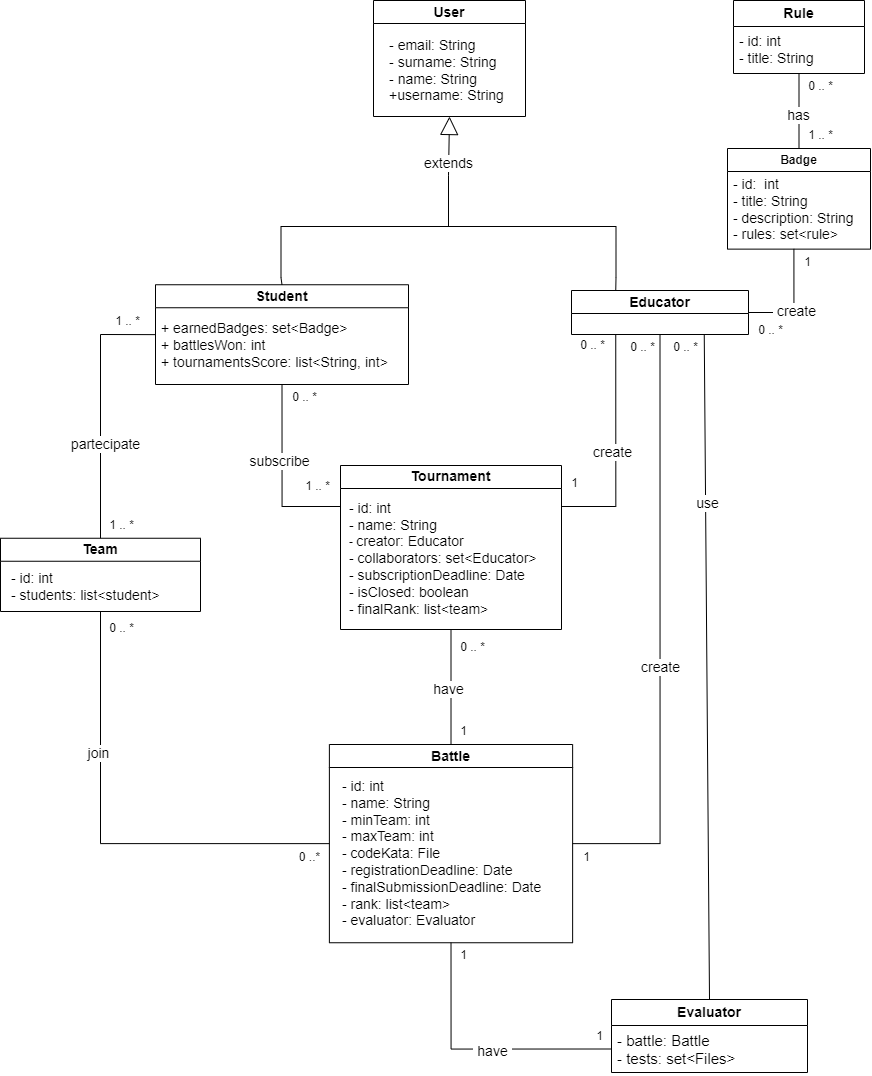
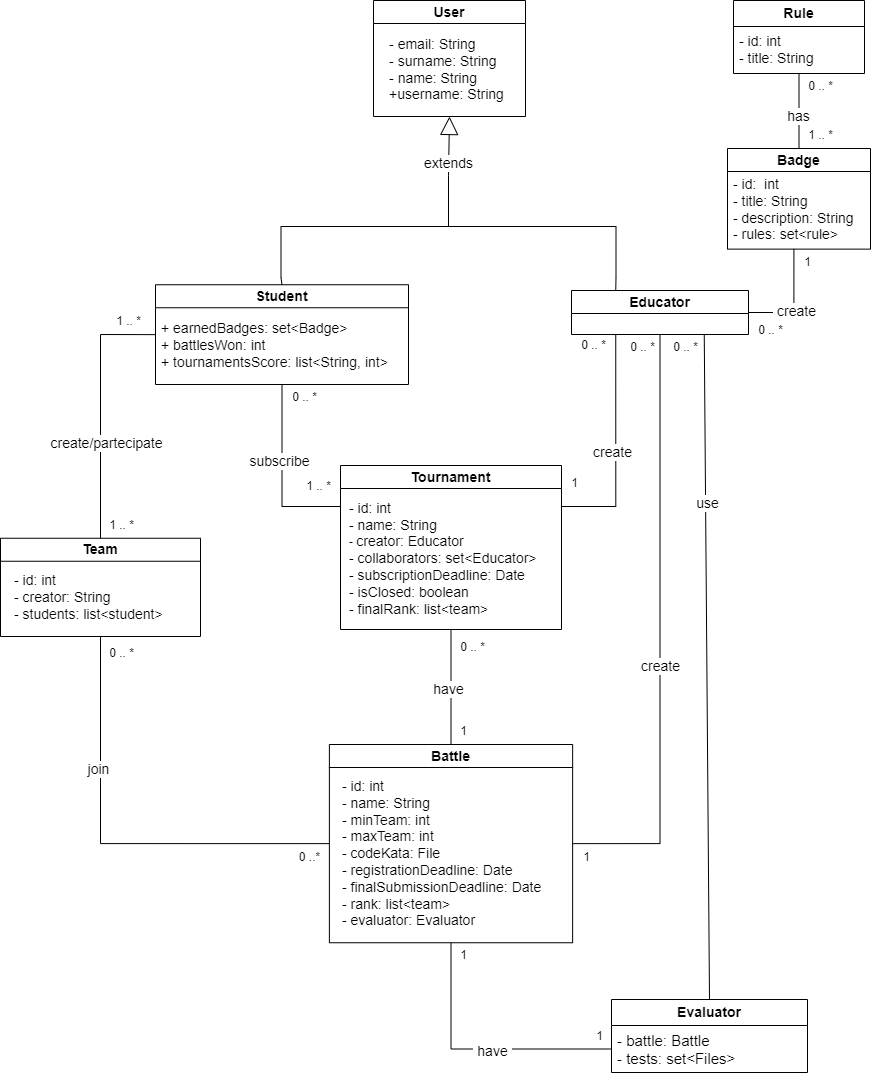
Finished state diagrams.
Small change domain class diagram (add attribute creator to the team).
Added prod. func. "create team".
Eliminated subsection "Interfaces to other applications", not needed in chapter 2.
Organized the requirements in chapter 3 based on the users involved.

diff --git a/RASD/chapters/2_overall_description.tex b/RASD/chapters/2_overall_description.tex
@@ -49,6 +49,20 @@ When the final submission deadline expires the battle ends and a consolidation s
     \caption{Battle state diagram}
     \label{fig:battle_state}
 \end{figure}
+
+\subsubsection*{Team state diagrams}
+The state diagram in figure \ref{fig:team_state} represent the evolution of a team, from its creation to its end. \newline
+When a student who is enrolled in a tournament wants to participate in a battle he/she must create a team. The creator can send infinite invitations, and the firsts to accept will be added to the team. As soon as the team reach the maximum value of students, it is complete and all other invitations sent before will not be useful. \newline
+As soon as the battle registration deadline expires the team formation closes. If the team has reached the minimum required value it is complete and can participate to the battle. Otherwise it will be eliminated. \newline 
+If all invitations are declined the creator have the possibility to eliminate the team. 
+If the creator create the team by error, he can eliminate it. This is necessary because a creator is not allowed to join another team by accepting an invite.
+
+\begin{figure}[H]
+    \centering
+    \includegraphics[scale=0.5]{images/team_state.png}
+    \caption{Team state diagram}
+    \label{fig:team_state}
+\end{figure}
 \clearpage
 
 \subsection{Scenarios}
@@ -122,8 +136,14 @@ When the registration deadline expires, the CKB platform creates a GitHub reposi
 \subsection{Subscribe to a tournament}
 This function will be available only for students. \newline When a new tournament is created all registered students are notified and can subscribe within a given deadline.
 
-\subsection{Join a battle or a team}
-This function will be available only for students. \newline When there is an upcoming battle in a tournament all subscribed students are notified. Each student can join a battle only with a team, even made up of only one student if it is allowed. Teams are formed by invite.
+\subsection{Join a battle}
+This function will be available only for students. \newline When there is an upcoming battle in a tournament all subscribed students are notified. Each student can join a battle only with a team, even made up of only one student if it is allowed. 
+
+\subsection{Create a team}
+This function will be available only for students. \newline
+Teams are formed by invite. The creator is able to send infinite invitations, and the firsts to accept will be added to the team.  \newline
+The invite will be received by e-mail, and the recipient must click on the right link if he/she wants to accept or decline. The student has 24h to respond to an invite, otherwise it will be automatically declined. \newline
+The creator is not allowed to accept other invitations. If all invitations are declined the creator can eliminate the team.
 
 \subsection{Automatic scores updates}
 When the students push a new commit into the main branch of the GitHub repository, the CKB platform automatically analyze it and runs the tests to calculate and update the battle score of the team.\newline
@@ -149,6 +169,8 @@ Every user can view a profile of a student by searching for his/her username. In
 This function will be available only for educators. 
 \newline A badge can be created by specifying a title and at least one rule that must be satisfied to achieve it. Each badge is then automatically assigned to one or more students by checking the validity of the rules. Educators can also create new variables that represent relevant information for scoring. A variable is identified by a unique name and a measurement unit, that can be selected by a list of predefined (e.g. integer, float, date, ..).
 
+\clearpage
+
 \section{User characteristics}
 Each user must have a profile to be able to use the CKB platform.
 There are two different type of users:
@@ -160,9 +182,9 @@ There are two different type of users:
 \end{itemize}
 
 \section{Assumptions, dependencies and constraints}
-In this section are listed all assumption made for the domain in which the system operates. These are conditions that the system take for granted because they are external to it but influence its behaviour.
 
 \subsection{Domain assumptions}
+In this section are listed all assumption made for the domain in which the system operates. These are conditions that the system take for granted because they are external to it but influence its behaviour.
 \begin{enumerate}[label=\textbf{DA.\arabic*}]
         \item \lbl{da: internet} {Users must have internet connection to interacts with the CKB platform.}
         \item \lbl{da: GitHubAccount} {Students must have a GitHub account to be able to deliver a solution.}
@@ -176,8 +198,5 @@ In this section are listed all assumption made for the domain in which the syste
 \subsection{Constraints}
 In this section are presented general considerations about limitations on the systems.
 
-\subsubsection{Regulatory policies}
+\subsubsection*{Regulatory policies}
 All users information will be processed in according with the GDPR, and e-mail addresses won't be used for commercial purposes.
-
-\subsubsection{Interfaces to other applications}
-The CKB platform uses the GitHub API [... to be defined]

diff --git a/RASD/chapters/3_specific_requirements.tex b/RASD/chapters/3_specific_requirements.tex
@@ -18,24 +18,29 @@ In this section, it is given a complete description of the functional requiremen
 
     \subsection{Requirements}
         \begin{enumerate}[series=requirements, label=\textbf{R.\arabic*}]
+            \subsubsection*{Users}
             \item \lbl{req: reg} {The system shall allow users to register on the platform with their personal information.}
             \item \lbl{req: login} {The system shall allow registered users to log in the platform with valid credentials.}
+            \item \lbl{req: listT} {The system shall allow all users to see the list of ongoing tournaments.}
+            \item \lbl{req: evalA} {The system shall automatically evaluate submissions.}
+            \item \lbl{req: ranks} {The system shall allow users to be able to monitor ranking in real-time during battles and tournaments.}
+            \item \lbl{req: profile} {The system shall allow users to see other students' profile.}
+            
+            \subsubsection*{Educators}
             \item \lbl{req: createT} {The system shall allow the educators to create tournaments.}
             \item \lbl{req: manageT} {The system shall allow the educators to manage their tournaments, in particular invites other collaborators and ends the tournament.}
             \item \lbl{req: createB} {The system shall allow the educators to create code kata battles within a tournament.}
-            \item \lbl{req: listT} {The system shall allow all users to see the list of ongoing tournaments.}
-            \item \lbl{req: enrollT} {The system shall allow students to subscribe in tournaments.}
-            \item \lbl{req: enrollB} {The system shall allow students to enroll in a battle within a tournament.}
-            \item \lbl{req: formTeam} {The system shall allow students to form team for battles, by inviting other students.}
-            \item \lbl{req: evalA} {The system shall automatically evaluate submissions.}
-            \item \lbl{req: ranks} {The system shall allow users to be able to monitor ranking in real-time during battles and tournaments.}
-            \item \lbl{req: evalM} {The system shall allow educators to manually evaluate students (if needed) right after a battle closes, during the consolidation stage.}
+             \item \lbl{req: evalM} {The system shall allow educators to manually evaluate students (if needed) right after a battle closes, during the consolidation stage.}
             \item \lbl{req: createBad} {The system shall allow educators to create badges.}
             \item \lbl{req: defineRV} {The system shall allow educators to define rules and variables.}
-            \item \lbl{req: profile} {The system shall allow users to see other students' profile.}
+
+            \subsubsection*{Students}
+            \item \lbl{req: enrollT} {The system shall allow students to subscribe in tournaments.}
+            \item \lbl{req: enrollB} {The system shall allow students to enroll in a battle within a tournament.}
+            \item \lbl{req: formTeam} {The system shall allow students to form team for battles, by inviting other students.}        
             \item \lbl{req: notifT} {The system shall notify the students about new tournaments within 10 seconds.}
             \item \lbl{req: notifB} {The system shall notify the students about upcoming battles in tournaments in which they are subscribed within 10 seconds.}
-             \item \lbl{req: notifInvite} {The system shall notify the students when they receive an invite to partecipate in a team within 10 seconds.}
+             \item \lbl{req: notifInvite} {The system shall notify the students when they receive an invite to participate in a team within 10 seconds.}
              \item \lbl{req: notifGitHub} {The system shall notify the students when the GitHub repository of a battle is available.}
              \item \lbl{req: notifRankB} {The system shall notify the students when the final battle rank became available within 10 seconds.}
              \item \lbl{req: notifRankT} {The system shall notify the students when the final tournament rank became available within 10 seconds.}
@@ -198,6 +203,7 @@ In this section, it is given a complete description of the functional requiremen
         \end{center}
 
     \subsection{Use cases}
+    
 
     \subsection{Traceability matrix}
     %preimpostata, va riempita quando faremo gli usecases

diff --git a/RASD/chapters/5_effort.tex b/RASD/chapters/5_effort.tex
@@ -42,9 +42,9 @@
 		\textbf{Task} & \textbf{Hours} \\ \hline
             Document setup & 2 \\ \hline
             Chapter 1: Introduction & 3 \\ \hline
-            Chapter 2: Overall description & 10.5 \\ \hline
+            Chapter 2: Overall description & 11 \\ \hline
             Chapter 3: Specific requirements & 8 \\ \hline
             Chapter 4: Alloy & 0 \\ \hline
-            Extra Activities & 1 \\ \hline
+            Extra Activities & 1.5 \\ \hline
 	\end{tabular}
 \end{center}
